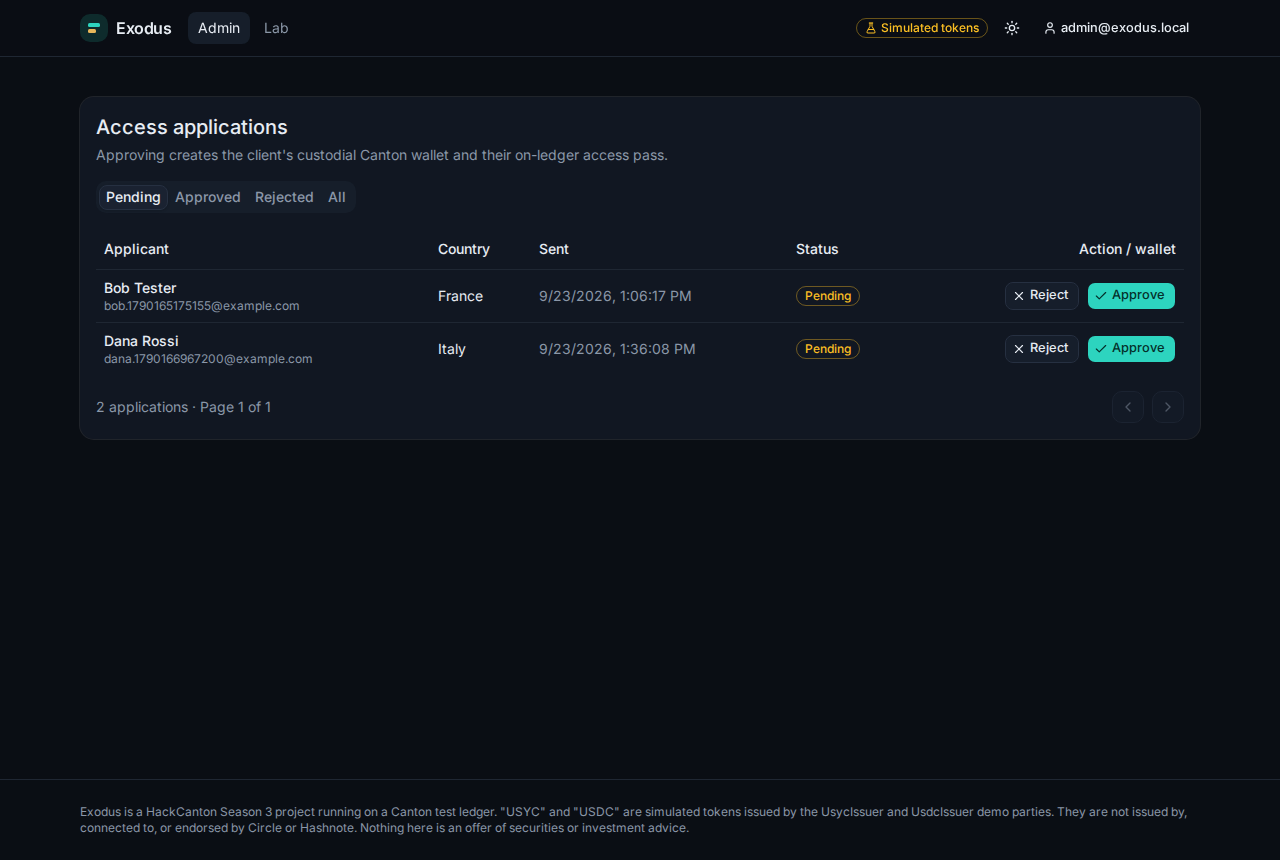
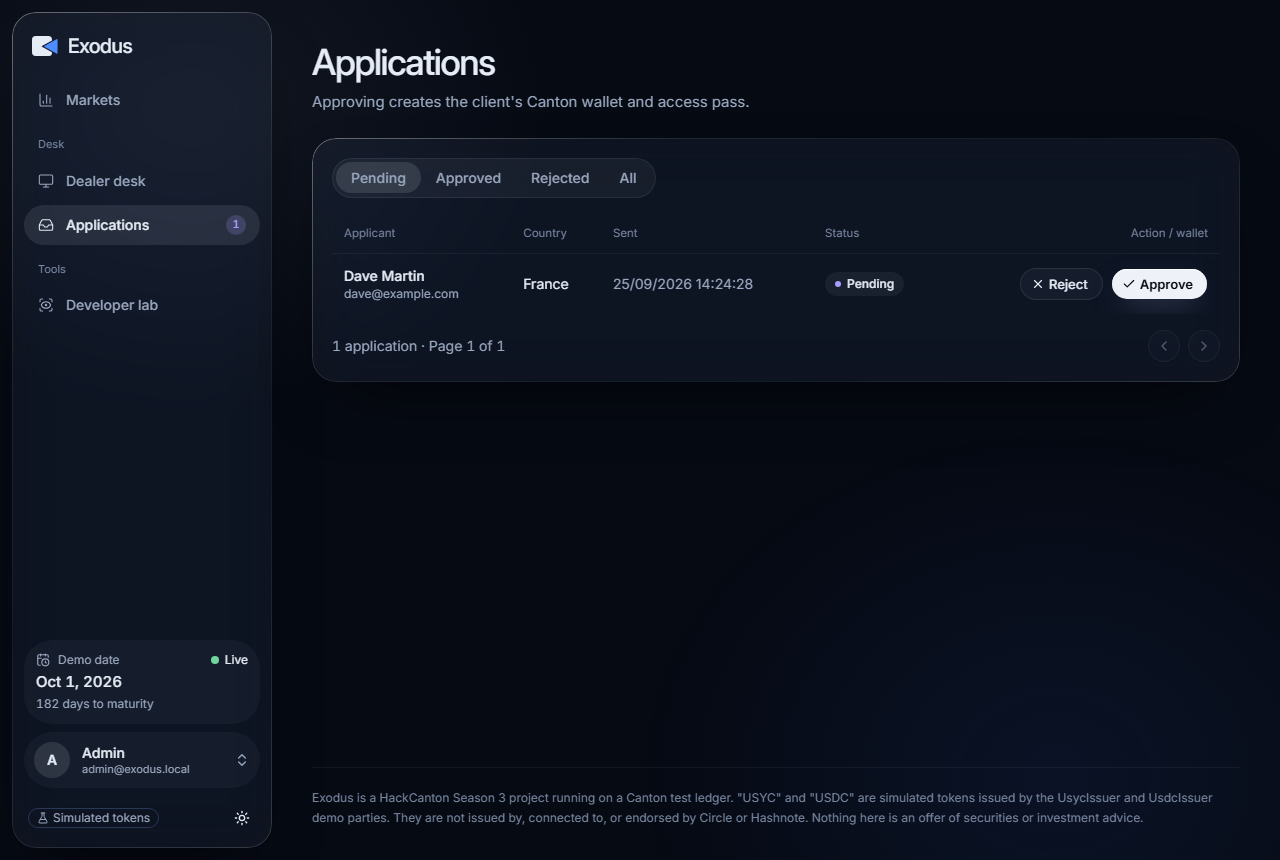
docs: screenshots and guides for the Glacier client app
- README: new screenshots of the Wallet, the landing page and the
  applications queue, plus the market page with a live private firm quote
  and the Portfolio (market.png, portfolio.png).
- run-locally.md: the walkthrough follows the new screens (the "Get
  started" checklist, the demo clock in the sidebar, Send from Holdings,
  the market's "Fixed yield" button, the dealer desk, Portfolio's Redeem
  and Claim buttons).
- client-app.md: the pages table matches the new screens, step 8 (Glacier
  integration) is done, and the web structure lists the shared building
  blocks. exodus-app/README.md describes the web app's pages and shell.

diff --git a/docs/client-app.md b/docs/client-app.md
@@ -29,11 +29,11 @@ Example with Alice:
 | `/` | Everyone | Landing: what Exodus is, how simulated USYC works, "Request access" |
 | `/login`, `/signup` | Everyone | Email + password |
 | `/onboarding` | Signed-in, not approved | Access form, then "pending review" / "rejected" status |
-| `/app` | Approved clients | Dashboard: price strip (USYC price, APY from index growth, demo date, live dot), price chart, Subscribe/Redeem panel (Redeem shows pending requests with a Cancel button), faucet card, holdings, activity |
-| `/markets` | Signed in | Market cards: maturity, underlying APY, fixed APY, the house dealer's PT price (markets-plan Phase 7) |
+| `/app` | Approved clients | Wallet (the USYC fund): "Get started" checklist for a new wallet, summary cards (wallet value, USYC, USDC, fund APY), price chart, Subscribe/Redeem (pending redeems with Cancel), holdings with a Send dialog per token, faucet, activity |
+| `/markets` | Signed in | One row per market ("USYC · Apr 1, 2027"): fixed APY, underlying APY, the house dealer's PT price, days left; buttons that open a tab (`?tab=fixed`, `?tab=mint`) |
 | `/markets/:id` | Signed in (actions: approved clients) | Tabs Fixed Yield (PT) (private RFQ: quote, countdown, Accept/Reject), Mint / Redeem (split / merge), Yield (YT) (claim), At maturity (redeem PT); "Your position" card |
-| `/portfolio` | Approved clients | PT/YT per market with USD value, open payout requests with Cancel, market activity |
-| `/dealer` | Admins | House dealer desk: open RFQs (manual quote / decline), Bank's position and its claim / PT redeem, live quotes, bot settings |
+| `/portfolio` | Approved clients | Summary cards (value, claimable yield, principal at maturity, next maturity), one row per PT and per YT with Sell / Redeem / Claim, open payout requests with Cancel, market activity |
+| `/dealer` | Admins | House dealer desk: Bot/Manual quoting chip, summary cards, open RFQs (manual quote / decline), live quotes, Bank's inventory with its claim / PT redeem, bot settings |
 | `/admin` | Operator admins | Applications list, Approve / Reject |
 | `/lab` | Developers | The original walking skeleton: party switcher, oracle card and controls, CIP-56 wallet, subscribe, send, "what can this party see?" privacy table. Kept on purpose as the privacy demo for judges |
 
@@ -120,7 +120,7 @@ Surfaces are glass: `.glass` (thin fill, blur, a 1 px gradient rim), `.glass-str
 | 5 | `/app` dashboard: price strip, chart, subscribe, faucet, holdings, activity | Done (2026-09-23). Price strip (price, 30-day APY, demo date, days to maturity, Live/Paused), Recharts area chart with crosshair tooltip and a screen-reader table, Subscribe/Redeem panel (Redeem explained as spec gap 13), faucet with countdown, holdings with USD value and party id, send form, activity from the ledger history. Checked in headless Chromium (dark, light, 390 px): faucet, subscribe 40 USDC, send to Operator refused, send 5 USYC to Bank, activity rows |
 | 6 | Update README, CLAUDE.md and the spec; typecheck, lint, tests | Done (2026-09-23). Unit tests with `node:test` (43: ledger 19, API 15, web 9; `npm test` in `exodus-app`), root `README.md` with screenshots (`docs/images/`), spec updated (architecture, trust in the custodial backend, gaps 15–17), `run-locally.md`. The API test found and fixed a bug: `COOKIE_SECURE=false` was read as `true`. Final run: 24 Daml tests, 43 unit tests, typecheck, lint, web build, migrations on an empty database, full browser flow |
 | 7 | USYC redeem (spec gap 13): contract, tests, `@exodus/ledger` `redeem.ts`, API endpoints + settlement loop, Redeem tab with pending list, activity labels | Done (2026-09-25). 31 Daml tests (7 new in `RedeemTest`), unit tests for `multiplyRoundDown6`, `hasAtMost6Decimals`, `previewUsdc` and the redeem activity rows. Checked on a fresh sandbox with the oracle running: redeem 100 USYC, price moved before settle, paid 101.331521 USDC at 1.0133152174; cancel gave the USYC back; other parties saw no requests |
-| 8 | Glacier integration of the app screens (Farouk): lazy app pages, landing → sign-up, Glacier primitives, glass sidebar shell, then every screen restyled or rebuilt on the same hooks | In progress (2026-09-25). 8.1 done: every page except the landing loads lazily (`lazyPage` in `router.tsx`); the landing downloads no ledger, app or chart code (entry file 1.28 MB → 458 kB). 8.2 done: the landing's buttons lead into the app ("Request access" → /signup, "Log in", "Open the lab"); the landing itself never calls the API. 8.3 done: the shadcn primitives follow Glacier (glass cards, pill tabs and buttons, glass menus and dialogs, quiet tables) and the colours mean one thing each: yield blue for yield only (the old `text-gold` did not exist), success green for live and approved, violet for pending. 8.4 done: the app shell (decision B1) is a floating glass sidebar (`AppLayout`: navigation by role, the demo clock with Live/Paused, the account menu; a glass top bar with a menu on phones); sign-up, login and onboarding use `FocusLayout` (one centred column). 8.5 done: sign-up, login and onboarding restyled on the same hooks, with a 4-step journey line (Account, Access request, Review, Wallet), show/hide password, a real h1 on each screen, and "Browse the markets" while an application waits. 8.6 done: the Wallet rebuilt on the same hooks: a "Get started" checklist for a new wallet (faucet → subscribe → markets), summary cards (value, USYC, USDC, fund APY), big amount boxes with Max and a "You get about" preview, the price chart with its growth since the first point, holdings with a Send dialog per token, glass activity rows. 8.7 done: Markets list (Pendle-style names, fixed APY in silver, underlying APY in yield blue, deep links `?tab=`) and the market page (stat cards, trade widget with an "at maturity" line, a firm-quote card with a draining countdown, token-row previews for mint/redeem/payouts). Fixed: asking again right after a quote expired picked the old quote up again (it shows "Expired" 2 s early), so the new quote never appeared. 8.8 done: Portfolio like the landing's app preview: summary cards (value, claimable yield summed exactly, principal at maturity, next maturity), one row per PT and per YT with its next action (Sell / Redeem / Claim, linking to the right tab), payout requests, market activity, and an empty state. 8.9 done: Dealer desk (summary cards, RFQ inbox, live quotes, inventory with Bank's payouts, bot settings, a Bot/Manual quoting chip) and Applications (status chips, bright Approve) restyled on the same hooks; checked manual quoting end to end. 8.10 done: the landing page's app preview is redrawn as the real Portfolio page (same sidebar, cards and rows, built with the app's StatCard and TokenIcon), still with the spec §9 numbers |
+| 8 | Glacier integration of the app screens (Farouk): lazy app pages, landing → sign-up, Glacier primitives, glass sidebar shell, then every screen restyled or rebuilt on the same hooks | Done (2026-09-25), one commit per step. 8.1: every page except the landing loads lazily (`lazyPage` in `router.tsx`); the landing downloads no ledger, app or chart code (entry file 1.28 MB → 458 kB). 8.2: the landing's buttons lead into the app ("Request access" → /signup, "Log in", "Open the lab"); the landing itself never calls the API. 8.3: the shadcn primitives follow Glacier (glass cards, pill tabs and buttons, glass menus and dialogs, quiet tables) and the colours mean one thing each: yield blue for yield only (the old `text-gold` did not exist), success green for live and approved, violet for pending. 8.4: the app shell (decision B1) is a floating glass sidebar (`AppLayout`: navigation by role, the demo clock with Live/Paused, the account menu; a glass top bar with a menu on phones); sign-up, login and onboarding use `FocusLayout` (one centred column). 8.5: sign-up, login and onboarding restyled on the same hooks, with a 4-step journey line (Account, Access request, Review, Wallet), show/hide password, a real h1 on each screen, and "Browse the markets" while an application waits. 8.6: the Wallet rebuilt on the same hooks: a "Get started" checklist for a new wallet (faucet → subscribe → markets), summary cards (value, USYC, USDC, fund APY), big amount boxes with Max and a "You get about" preview, the price chart with its growth since the first point, holdings with a Send dialog per token, glass activity rows. 8.7: Markets list (Pendle-style names, fixed APY in silver, underlying APY in yield blue, deep links `?tab=`) and the market page (stat cards, trade widget with an "at maturity" line, a firm-quote card with a draining countdown, token-row previews for mint/redeem/payouts). Fixed: asking again right after a quote expired picked the old quote up again (it shows "Expired" 2 s early), so the new quote never appeared. 8.8: Portfolio like the landing's app preview: summary cards (value, claimable yield summed exactly, principal at maturity, next maturity), one row per PT and per YT with its next action (Sell / Redeem / Claim, linking to the right tab), payout requests, market activity, and an empty state. 8.9: Dealer desk (summary cards, RFQ inbox, live quotes, inventory with Bank's payouts, bot settings, a Bot/Manual quoting chip) and Applications (status chips, bright Approve) restyled on the same hooks; checked manual quoting end to end. 8.10: the landing page's app preview is redrawn as the real Portfolio page (same sidebar, cards and rows, built with the app's StatCard and TokenIcon), still with the spec §9 numbers. 8.11: QA on a live stack (every route and guard, sign-up to approval, wallet, trading incl. declined and expired quotes, mint/redeem, claims, a market run to maturity, light theme, phones), the app layouts made lazy too (landing entry 447 kB), README screenshots |
 
 Update this table as steps land.
 
@@ -129,6 +129,7 @@ Update this table as steps land.
 - `web/src/api/`: `client.ts` (`apiRequest`, `ApiError` with `fieldErrors`), `types.ts` (response shapes, written by hand to match the API), `hooks.ts` (one React Query hook per call), `query-client.ts` (any 401 clears the cached profile, so guards send the user to `/login`).
 - `web/src/auth/`: `RequireStage` (`signed-out` for /login and /signup, `signed-in` for /onboarding, `approved` for /app, `admin` for /admin) and `homePathFor` (admin → /admin, wallet → /app, else /onboarding).
 - `web/src/components/layout/`: `AppLayout` (sidebar shell: `AppNav` decides the links by role, `DemoClock`, `AccountCard`), `FocusLayout` (sign-up, login, onboarding), `MarketingLayout` (landing).
+- Shared Glacier building blocks: `layout/Page.tsx` (`Page`, `PageHeader`), `finance/` (`StatCard`, `AmountInput`, `SummaryRows`, `TokenIcon`, `Amount`), `StatusChip`, `markets/` (`MarketBadge`, `TokenOutput`, `TradeAccessNote`). Pure helpers with tests in `lib/` (`tokens.ts`, `portfolio.ts`, and `marketName` / `marketTabFrom` / `quoteTimeLeftShare` in `markets.ts`). The shadcn primitives in `components/ui` are restyled for Glacier (glass cards, pill tabs and buttons).
 - `web/src/router.tsx`: every page except the landing is a `lazyPage(...)`: its code downloads when it is opened, with `PageLoading` shown meanwhile on a first visit. Add new pages the same way, so the landing page never ships app code.
 - Logging out reloads `/` with `window.location.assign`. A router navigation would lose the race against the guard of the current page, which would jump to /login.
 

diff --git a/docs/run-locally.md b/docs/run-locally.md
@@ -97,7 +97,7 @@ npm run oracle      # keeps running: publishes a new price every 5 s
 ```
 
 - Run `bootstrap` **after every ledger start**: the sandbox keeps everything in memory, so it starts empty each time. If you run it too early, it retries by itself ("attempt 2/10…").
-- The price only stays valid for 30 seconds, so **keep the oracle running**. Otherwise the dashboard shows "Paused" and Subscribe is blocked.
+- The price only stays valid for 30 seconds, so **keep the oracle running**. Otherwise the demo clock in the sidebar shows "Paused" and Subscribe is blocked.
 - Prefer to move time by hand? Use `npm run oracle:hold` instead: it keeps the price valid but does not move the demo clock. Then use the "Next step" button on `/lab`.
 
 **Terminal 3: the API**
@@ -125,13 +125,13 @@ Use two browser windows. A private/incognito window gives a second login.
 2. **Client (window B).** On the home page, click **Request access** and sign up (for example `carol@example.com` and a 10+ character password).
 3. Fill in the form: name, country (type "fra" to find France), tick the "simulated tokens" box, then **Send request**. You now see "under review".
 4. **Admin (window A).** Carol appears within 15 seconds. Click **Approve**, then **Approve** again in the dialog. This creates her Canton party, her ledger user and her access pass.
-5. **Client (window B).** Within 10 seconds the page switches to **"You are approved"**. Click **Open my wallet**.
-6. On the dashboard:
-   - **Faucet:** click **Claim 100 test USDC**. Holdings shows 100 USDC and Activity shows "Received +100 USDC".
+5. **Client (window B).** Within 10 seconds the page switches to **"You're approved"**. Click **Open my wallet**.
+6. On the Wallet page (a **Get started** checklist leads the way):
+   - **Faucet:** click **Claim 100 test USDC** in the checklist. Holdings shows 100 USDC and Activity shows "Received +100 USDC".
    - **Subscribe:** enter `50` and check the preview ("You get about 49.5 USYC"), then click **Subscribe**. Activity shows "Subscribed −50 USDC · +49.5 USYC".
-   - **Price:** watch the price strip and chart. With `npm run oracle` running, the demo date jumps 7 days every 5 seconds and the USYC price grows (1.00 on Oct 1 2026 → 1.025 on Jan 1 2027 → 1.05 on Apr 1 2027). Your USYC balance stays the same, but its USD value grows. That growth is the yield.
+   - **Price:** watch the demo clock in the sidebar, the **Fund yield** card and the chart. With `npm run oracle` running, the demo date jumps 7 days every 5 seconds and the USYC price grows (1.00 on Oct 1 2026 → 1.025 on Jan 1 2027 → 1.05 on Apr 1 2027). Your USYC balance stays the same, but its USD value grows. That growth is the yield.
    - **Redeem:** open the **Redeem** tab, enter `20` USYC and check the estimate ("You get about 20.2 USDC"), then click **Redeem**. Your USYC is burned at once and the request shows under **Pending redeems**. Within about 2 seconds the fund pays you at the price of that moment and the request disappears. Activity shows "Redeem requested −20 USYC", then "Redeemed +20.2… USDC". Click **Cancel** on a pending request (for example while the oracle is stopped) to get the USYC back.
-   - **Send:** sign up and approve a second client, copy their party id from their Holdings card, and send them some USYC. Sending to a party without an access pass is refused.
+   - **Send:** sign up and approve a second client, copy their party id (their Wallet page, under Holdings), then click **Send** next to USYC in your Holdings. Sending to a party without an access pass is refused.
 7. Want the privacy story? Open **`/lab`**. You can act as any demo party (Alice, Bank, the issuers, the Operator) and see which contracts each one can see.
 
 ---
@@ -140,13 +140,13 @@ Use two browser windows. A private/incognito window gives a second login.
 
 Tip: use `npm run oracle:hold` for this demo and move the clock by hand with **Next step** on `/lab` (as the Oracle), so the dates wait for you.
 
-1. **Client (window B)**, after subscribing some USDC to USYC on the Wallet: open **Markets** → `PT-USYC-APR2027`. On Oct 1 it shows a fixed APY of 5.10 % (buy PT at 0.975503).
+1. **Client (window B)**, after subscribing some USDC to USYC on the Wallet: open **Markets** → **USYC · Apr 1, 2027** (`PT-USYC-APR2027`), button **Fixed yield**. On Oct 1 it shows a fixed APY of 5.10 % (buy PT at 0.975503).
 2. **Fixed Yield (PT)**: enter `20`, **Get firm quote**. Within about 2 seconds the house dealer's quote appears with a countdown. **Accept**: your USDC and the PT change hands in one transaction.
 3. **Privacy (window A, admin)**: open `/lab`, act as **Operator**: its "Markets" line shows `0 Quote` (it never sees the price); as **Bank** it shows the quote.
 4. **Mint / Redeem**: mint PT + YT from USYC; redeem PT + YT together (the USYC arrives in about 2 seconds).
-5. Move the clock to Jan 1 2027. **Dealer** page (admin): **Claim Bank's yield** → 24.390243 USYC for Bank's 1000 YT. The client's **Yield (YT)** tab shows its own claimable yield.
+5. Move the clock to Jan 1 2027. **Dealer desk** (admin): **Claim Bank's yield** → 24.390243 USYC for Bank's 1000 YT. The client's **Yield (YT)** tab shows its own claimable yield.
 6. Move the clock to Apr 1 2027: the Operator bot matures the market by itself (the market shows **Matured**).
-7. **At maturity**: **Redeem PT** (1 USD of USYC per PT), then the final claim in **Yield (YT)**. **Portfolio** and the Wallet's activity show every step.
+7. **At maturity**: **Redeem PT** (1 USD of USYC per PT), then the final claim in **Yield (YT)**. **Portfolio** (its **Redeem** and **Claim** buttons open these tabs) and the Wallet's activity show every step.
 
 Everything is also in Swagger (**http://localhost:3000/api/docs**): `/markets`, `/quote-requests`, `/quotes`, `/portfolio`, `/dealer/*`.
 

diff --git a/exodus-app/README.md b/exodus-app/README.md
@@ -14,7 +14,7 @@ This is a **walking skeleton**: a thin but real end-to-end slice (ledger, bot, U
 |---|---|---|
 | `ledger/` | `@exodus/ledger` | Typed client for the Canton JSON Ledger API v2, read helpers (`getRateIndex`, `getOwnedHoldings`, ...), CIP-56 `sendHoldings`, the USYC fund on-ramp (`subscribeUsyc`, `redeem.ts`), the demo oracle schedule, and the `bootstrap` script. The markets (the Pendle part): `markets.ts` (read markets, `splitUsyc`, `requestMerge`), `tokens.ts` (PT/YT positions), `rfq.ts` (quote, accept, reject, dealer side), `lifecycle.ts` (claim, PT redeem, cancel; the Operator's `settleMarketRequests` and `matureDueMarkets`), `market-math.ts` (fixed APY, dealer price, exact payout previews), and the `demo:markets` script. Shared by the bot, the API and the UI. |
 | `oracle-bot/` | `@exodus/oracle-bot` | Moves the USYC index and the demo clock forward along the spec §9 path. |
-| `web/` | `@exodus/web` | React + Vite + Tailwind CSS 4 + shadcn/ui UI with React Router. `/` is the public landing page; `/signup`, `/login`, `/onboarding` (access form and review status), `/admin` (review queue) and `/app` (the approved client's dashboard: price, APY, chart, subscribe, faucet, holdings, send, activity) talk to the backend API. `/lab` is the developer lab: party switcher, oracle card, CIP-56 wallet, USYC subscribe card, send form, oracle controls and a "what can this party see?" privacy table. |
+| `web/` | `@exodus/web` | React + Vite + Tailwind CSS 4 + shadcn/ui UI with React Router. `/` is the public landing page; `/signup`, `/login`, `/onboarding` (access form and review status), `/admin` (review queue), `/app` (the Wallet: the simulated USYC fund), `/markets`, `/markets/:id`, `/portfolio` and `/dealer` talk to the backend API. The app screens share a floating glass sidebar (`AppLayout`); every page except the landing loads lazily. `/lab` is the developer lab: party switcher, oracle card, CIP-56 wallet, USYC subscribe card, send form, oracle controls and a "what can this party see?" privacy table. |
 | `api/` | `@exodus/api` | NestJS + Prisma + PostgreSQL backend: email/password accounts (DB sessions), access applications, admin approval (allocates the client's custodial party + ledger user and creates their `ClientAccess` pass), the 100 test USDC faucet, custodial wallet commands (subscribe, send) and the USYC price history. Endpoints are listed in `../docs/client-app.md`; Swagger UI at `http://localhost:3000/api/docs`. |
 | `generated/daml.js/` | `@daml.js/*` | TypeScript types for our Daml templates, from `dpm codegen-js`. Generated, not committed. |
 

diff --git a/README.md b/README.md
@@ -11,7 +11,7 @@ PTs trade through **private RFQ** with **atomic delivery versus payment**: only 
 
 > **Simulation notice.** "USYC" and "USDC" in Exodus are **simulated** tokens issued by our own demo parties (`UsycIssuer`, `UsdcIssuer`). They behave like the real ones but are **not** issued by, connected to, or endorsed by Circle or Hashnote.
 
-![The /app dashboard: USYC price, 30-day APY, demo date, price chart, subscribe panel, faucet, holdings, send form and activity](docs/images/dashboard.png)
+![The Wallet (/app): wallet value, USYC, USDC and the fund's 30-day APY, the USYC price chart, Subscribe / Redeem, holdings with Send, the test USDC faucet and the activity read from the ledger, next to the glass sidebar with the demo clock](docs/images/dashboard.png)
 
 ## What works today
 
@@ -24,7 +24,9 @@ PTs trade through **private RFQ** with **atomic delivery versus payment**: only 
 
 | Landing page | Admin review queue |
 |---|---|
-| ![Landing page with "Request access"](docs/images/landing.png) | ![Admin page listing pending access applications with Approve and Reject buttons](docs/images/admin.png) |
+| ![Landing page with "Request access"](docs/images/landing.png) | ![Applications page listing access requests with their status and Approve / Reject buttons](docs/images/admin.png) |
+| **Private firm quote** | **Portfolio** |
+| ![Market page: buying PT with the indicative price, then a firm quote from the house dealer with a countdown and Accept / Reject](docs/images/market.png) | ![Portfolio: value, claimable yield, principal at maturity, one row per PT and YT with Sell / Claim, and the market activity](docs/images/portfolio.png) |
 
 ## Why Canton
 
